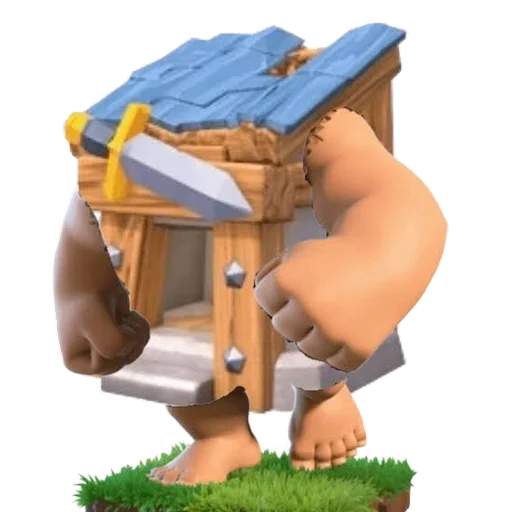
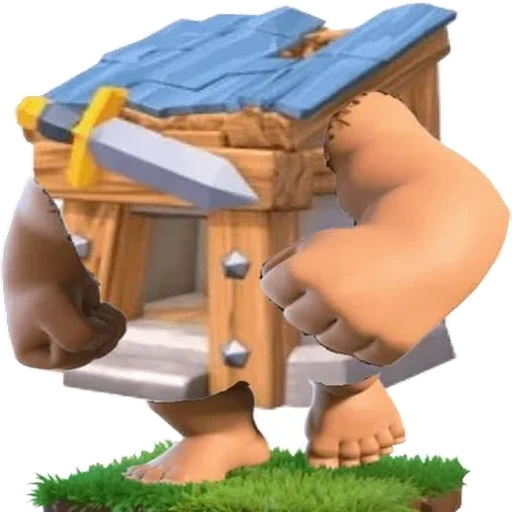
Imágenes enteras y estiradas al marco (sin recortar)
Claude-Session: https://claude.ai/code/session_01U8LMBvas7JRCSLyRbxTHyM

diff --git a/public/style.css b/public/style.css
@@ -85,7 +85,7 @@ button { font-family: var(--f-tit); cursor: pointer; }
   box-shadow: 0 0 0 2px #2a1806, 0 8px 18px #000c; }
 .heroe-arte { display: grid; place-items: center; width: 100%; height: 100%; overflow: hidden; font-size: calc(var(--esb) * 0.62); line-height: 1;
   border-radius: inherit; background: var(--ruido), var(--fondo, #555); box-shadow: inset 0 0 18px #000c; }
-.heroe-arte img { width: 100%; height: 100%; object-fit: cover; }
+.heroe-arte img { width: 100%; height: 100%; object-fit: fill; }
 .heroe .stat.hp { right: -12px; bottom: -8px; width: calc(var(--esb) * .44); height: calc(var(--esb) * .5); font-size: calc(var(--esb) * .26); }
 .heroe.desconectado { filter: grayscale(.9) brightness(.6); }
 /* misión: medallón arriba al centro del retrato, con anillo de progreso (como Hearthstone) */
@@ -94,7 +94,7 @@ button { font-family: var(--f-tit); cursor: pointer; }
   background: conic-gradient(#ffd34f calc(var(--p, 0) * 360deg), #2a1806 0); box-shadow: 0 0 0 2px #2a1806, 0 0 0 4px var(--oro2), 0 4px 10px #000c; }
 .mision-arte { display: grid; place-items: center; width: 100%; height: 100%; border-radius: 50%; overflow: hidden; font-size: 16px;
   background: radial-gradient(circle at 40% 30%, #6b4a1a, #2a1806); box-shadow: inset 0 0 8px #000; }
-.mision-arte img { width: 100%; height: 100%; object-fit: cover; }
+.mision-arte img { width: 100%; height: 100%; object-fit: fill; }
 .mision-chip b { position: absolute; left: 50%; bottom: -9px; transform: translateX(-50%); white-space: nowrap; padding: 0 6px; border-radius: 9px;
   font: 900 11px/16px var(--f-tit); color: var(--oro); background: #2a1806; border: 1.5px solid var(--oro2); }
 .mision-chip.completa { box-shadow: 0 0 0 2px #2a1806, 0 0 0 4px #ffe9a0, 0 0 18px #ffd34f; }
@@ -106,8 +106,8 @@ button { font-family: var(--f-tit); cursor: pointer; }
   font-size: calc(var(--esb) * .34); transition: transform .2s, filter .2s; }
 .poder > span { display: grid; place-items: center; width: 100%; height: 100%; border-radius: 50%; background: radial-gradient(circle at 40% 35%, #5d7aa8, #1d2b45); box-shadow: inset 0 0 8px #000; }
 .poder > span { overflow: hidden; }
-.poder > span img { width: 100%; height: 100%; object-fit: cover; }
-.global img { width: 100%; height: 100%; object-fit: cover; border-radius: 50%; }
+.poder > span img { width: 100%; height: 100%; object-fit: fill; }
+.global img { width: 100%; height: 100%; object-fit: fill; border-radius: 50%; }
 .poder .stat.mana { left: 50%; top: -12px; transform: translateX(-50%); width: 24px; height: 26px; font-size: 14px; }
 .poder.listo { box-shadow: 0 0 0 2px #2a1806, 0 0 0 4px var(--verde), 0 0 18px 4px #5cff86aa; }
 .poder.listo:hover { transform: scale(1.08); }
@@ -134,7 +134,8 @@ button { font-family: var(--f-tit); cursor: pointer; }
   box-shadow: 0 0 0 2px #2a1d10, 0 8px 12px #000a; }
 .esbirro .arte { display: grid; place-items: center; width: 100%; height: 100%; border-radius: 50%; overflow: hidden;
   font-size: calc(var(--esb) * .56); line-height: 1; background: var(--ruido), var(--fondo, #555); box-shadow: inset 0 0 16px #000d; pointer-events: none; }
-.esbirro .arte img, .carta .arte img { width: 100%; height: 100%; object-fit: cover; object-position: 50% 30%; }
+/* la imagen entera, estirada al marco (a propósito: se ve todo aunque se deforme) */
+.esbirro .arte img, .carta .arte img, .heroe-arte img, .poder > span img, .entrada-fig img, .mision-arte img { width: 100%; height: 100%; object-fit: fill; }
 .carta .texto.t2 { font-size: calc(var(--carta-w) * .072); line-height: 1.1; }
 .carta .texto.t3 { font-size: calc(var(--carta-w) * .063); line-height: 1.08; }
 .carta .texto.t4 { font-size: calc(var(--carta-w) * .056); line-height: 1.05; }
@@ -286,7 +287,7 @@ button { font-family: var(--f-tit); cursor: pointer; }
   background: linear-gradient(145deg, #fff0b0, var(--oro) 30%, var(--oro2) 60%, #ffe08a 80%, var(--oro3)); box-shadow: 0 0 0 2px #2a1806, 0 0 40px #ffd34f, 0 14px 30px #000; }
 .entrada-fig.rojo { background: linear-gradient(145deg, #ff8a7a, #a3121a 40%, #3a0006 75%, #ff4a3a); box-shadow: 0 0 0 2px #1a0000, 0 0 50px #ff2a2a, 0 14px 30px #000; }
 .entrada-fig span { display: grid; place-items: center; width: 100%; height: 100%; border-radius: 50%; overflow: hidden; font-size: 54px; background: var(--ruido), var(--fondo, #555); }
-.entrada-fig img { width: 100%; height: 100%; object-fit: cover; }
+.entrada-fig img { width: 100%; height: 100%; object-fit: fill; }
 .runa { position: fixed; width: 110px; height: 110px; border-radius: 50%; pointer-events: none; border: 3px dashed #ffd34f; box-shadow: 0 0 16px #ffd34f, inset 0 0 16px #ffd34f88; }
 .popup-carta { position: fixed; z-index: 64; pointer-events: none; filter: drop-shadow(0 10px 20px #000c); }
 .popup-carta .carta { --carta-w: min(34vw, 170px); }
